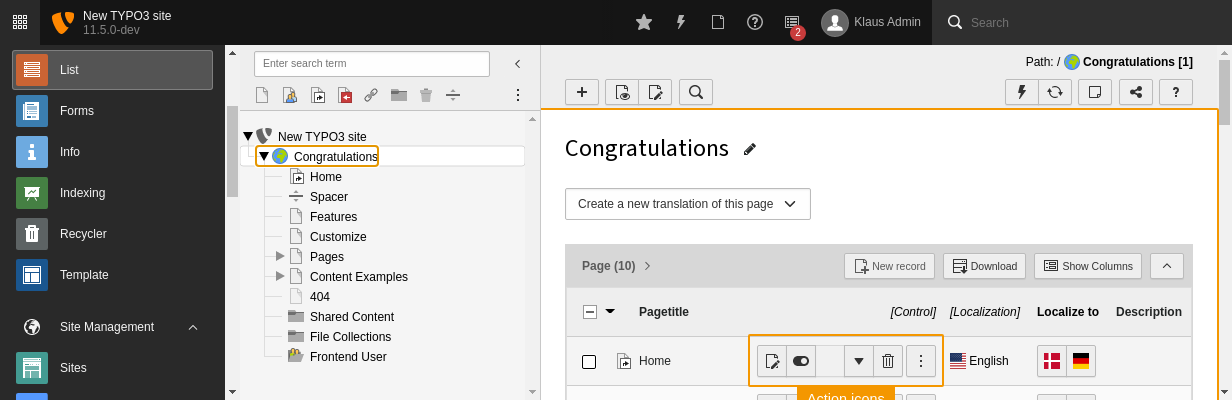
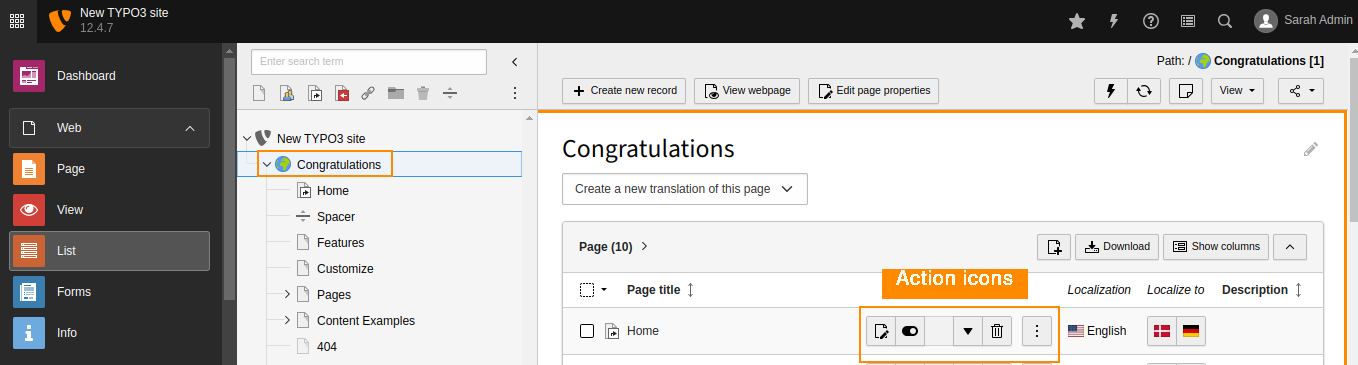
Overhaul Using the list module
Releases:main, Backport 12.4

diff --git a/Documentation/ListModule/UsingEffectively/Index.rst b/Documentation/ListModule/UsingEffectively/Index.rst
@@ -7,11 +7,10 @@ Introduction
 
 The :guilabel:`Web > List` module allows you to browse through pages and folders
 in your site and view the records that
-are stored there. You can also use the :guilabel:`List` module to
-create and manage records without their own module.
+are stored there. You can also create and edit records here outside of being in a
+specific module.
 
-Records stored on pages include sub pages, content elements and news
-stories.
+Records stored on pages include sub pages, content elements and news articles.
 
 =====================
 Using the list module
@@ -64,15 +63,7 @@ Action icons are also available in the **Content Area**:
    The ellipsis icon (three consecutive dots) expands the icon list to show
    additional action icons (typically used for accessing information, moving around, etc.)
 
-   Lastly, there are cut and paste icons.
-
-.. todo: the "Extended view" option does not exist anymore
-
-If you wish to have the list of icons expanded all the time, you can check the
-:guilabel:`Extended view` box at the very bottom of the view.
+   There are also cut and paste icons.
 
 Now, make sure that the :guilabel:`Show clipboard` box is checked, as we
 will explore this next.
-
-If you plan to manage a multilingual web site, check the
-:guilabel:`Localization view` checkbox.
